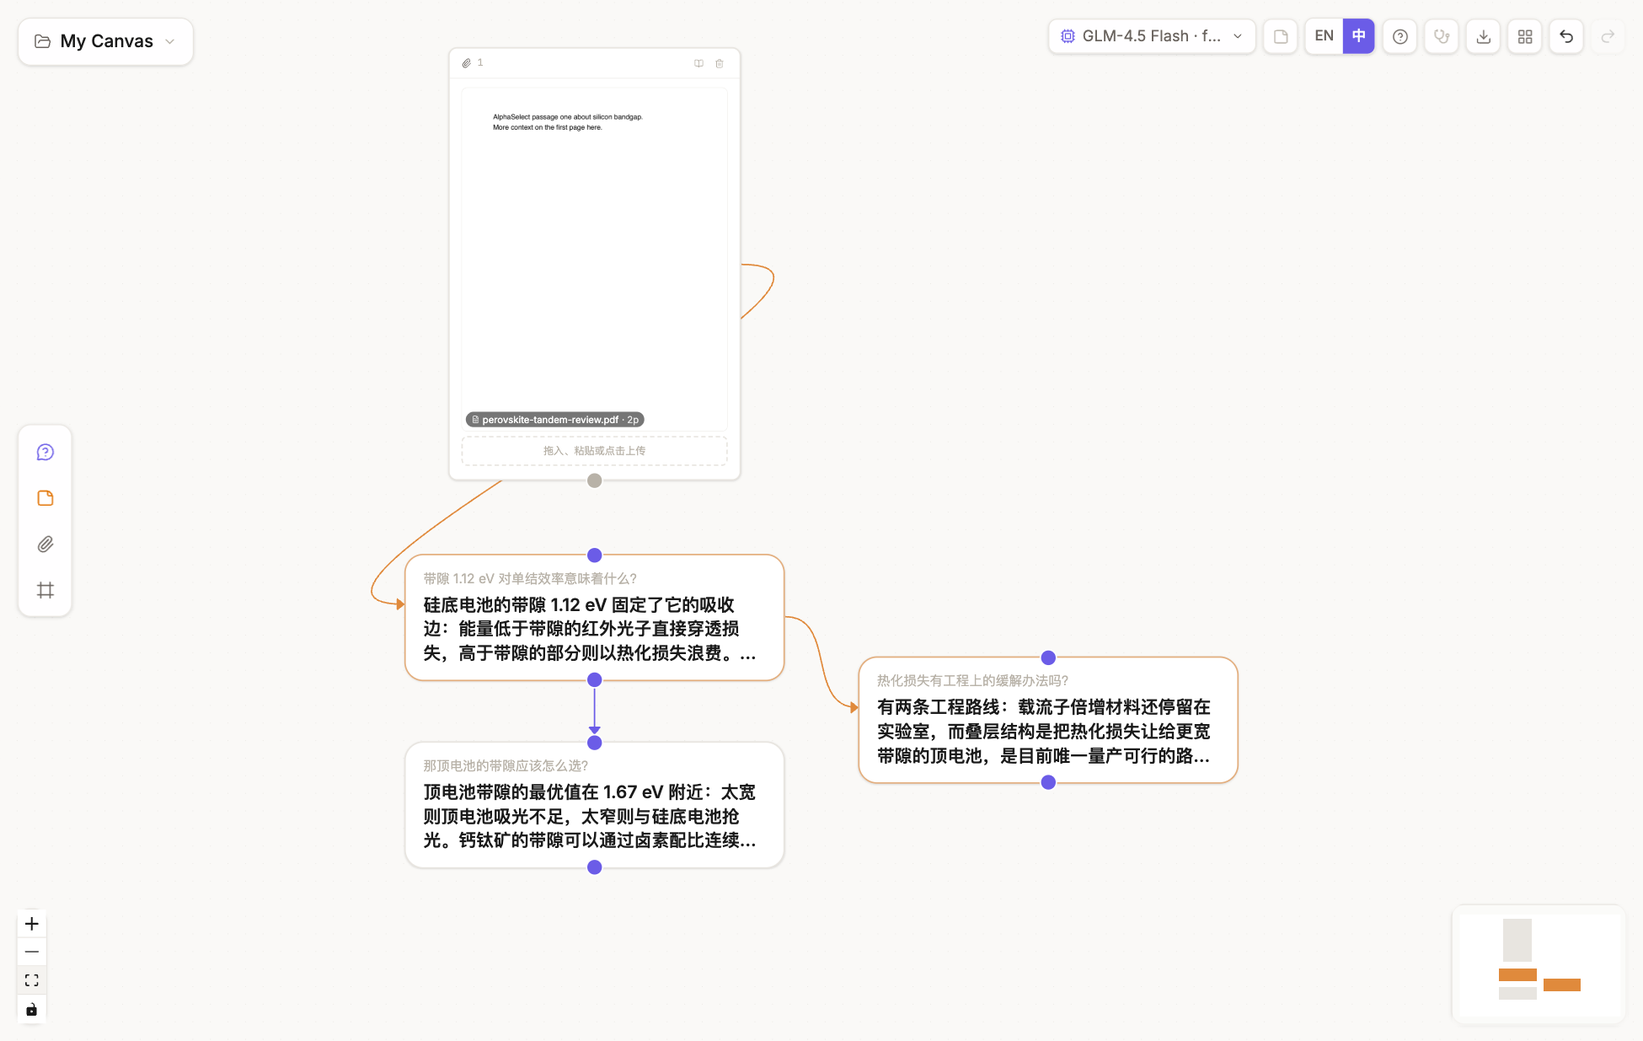
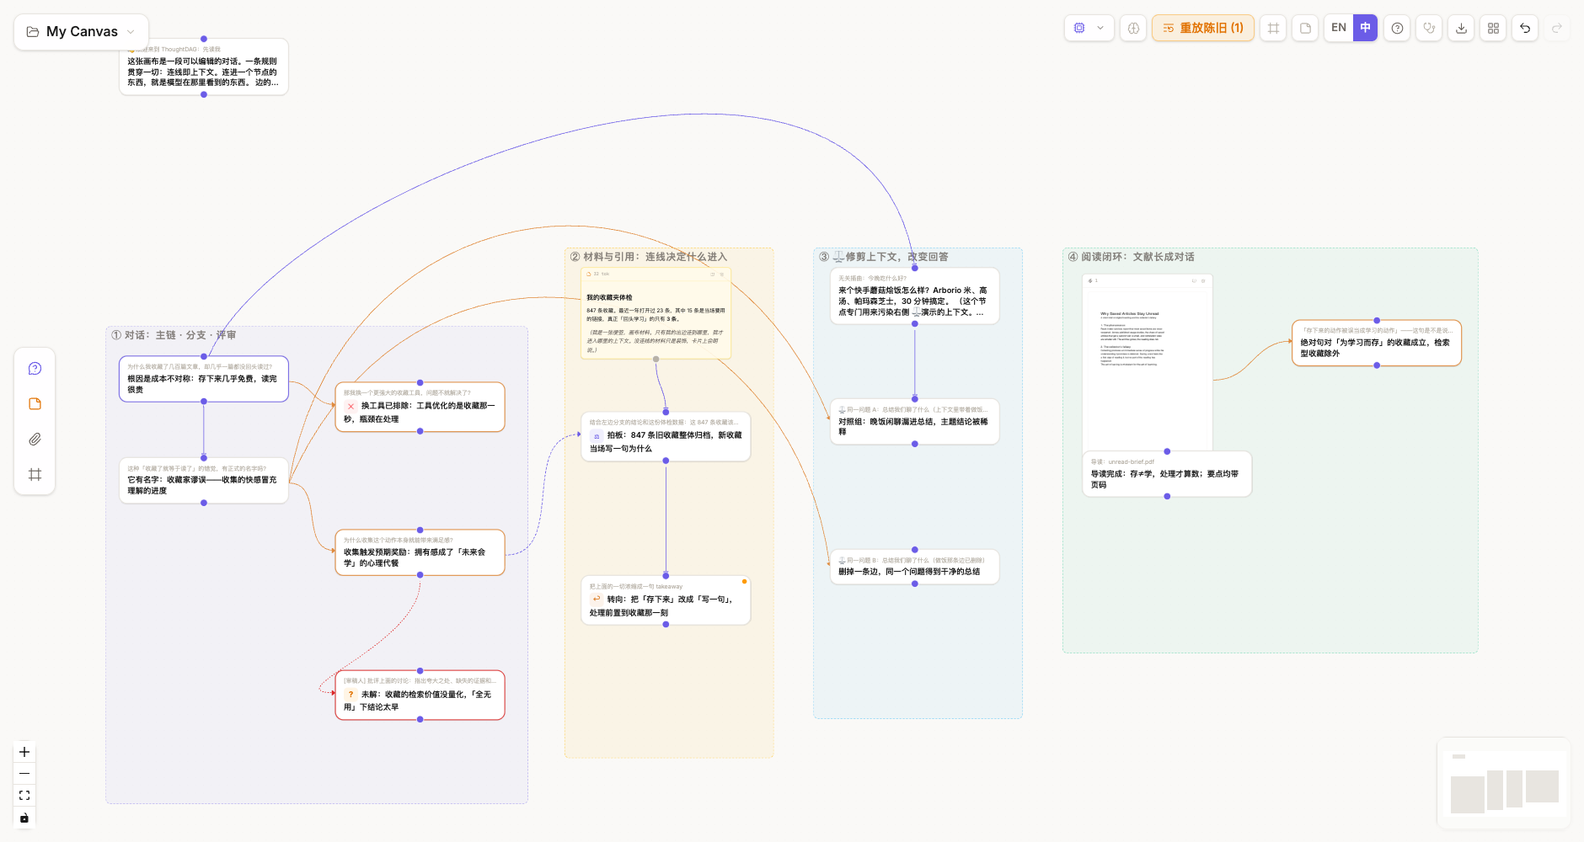
README: the reading loop and the map, with screenshots from the new example
- Hero is now the seeded example at map zoom: four chapters, typed
  takeaway badges, the reading-loop chapter with its PDF and digest.
- The reading chapter tells the full loop: anchors on the pages, p.N
  chips jumping back from canvas, the guided digest as a wireable node.
- Feature table gains a reading-loop row; map row names the badges.
- Full list: reader entry covers anchors and the thread index; new
  guided-digest entry; example-canvas entry describes the four chapters.
- All three static screenshots retaken from the new example (reader
  shows the anchored sentence with its bubble and the open thread).
- Example copy: bold-with-inner-colon patterns broke CommonMark strong
  parsing next to CJK text (literal ** leaked); colons moved outside.
  Question texts render as plain text on cards, so markdown removed.

diff --git a/src/lib/example-graph.ts b/src/lib/example-graph.ts
@@ -220,7 +220,7 @@ const CONTENT: Record<Lang, { nodes: SeedNode[] }> = {
       {
         id: 'welcome',
         q: '👋 欢迎来到 ThoughtDAG：先读我',
-        a: '这张画布是一段**可以编辑的对话**。一条规则贯穿一切：**连线即上下文**。连进一个节点的东西，就是模型在那里看到的东西。\n\n**边的语言：**\n- **紫色实线** = 对话主链（完整历史流入；排版和范式沿它推进）\n- **橙色实线** = 从选中文字长出的探索分支（同样是结构边，只是另一条脉络）\n- **紫色虚线** = **引用**：把那个节点的问答+它上游问题的来路带进来，不拖整条对话。选中这条边能看到 token 价签，可切换 引用 ⇄ 全量\n- **红色虚线** = 盯着一条讨论线的评审\n\n**标记：**琥珀色**「上游已变」徽章** = 这个回答写成之后上游被改过。点徽章原地重放（追加新版本，旧版保留）；工具栏的琥珀 chip 可按依赖顺序**批量重放**全部陈旧节点（先确认、带 token 报价）。\n\n**地图：**缩小画布（滚轮/触控板），每张卡片会收起成一句「收获」——问题变眉题，结论当标题，关键动作带徽章：✕ 排除 · ⚖ 决策 · ↩ 转向 · ? 待解。放大回来继续读全文。\n\n**手势：**双击空白=新提问节点 · 双击卡片=阅读面板 · 拖线到空白=就地延续 · 拖线落在卡片上=引用它。\n\n下面每个虚线分区是一章。随便删、随便拖，`?` 打开教程，右上角的下载图标随时导出整张画布的备份。这张图现在是你的了。',
+        a: '这张画布是一段**可以编辑的对话**。一条规则贯穿一切：**连线即上下文**。连进一个节点的东西，就是模型在那里看到的东西。\n\n**边的语言**：\n- **紫色实线** = 对话主链（完整历史流入；排版和范式沿它推进）\n- **橙色实线** = 从选中文字长出的探索分支（同样是结构边，只是另一条脉络）\n- **紫色虚线** = **引用**：把那个节点的问答+它上游问题的来路带进来，不拖整条对话。选中这条边能看到 token 价签，可切换 引用 ⇄ 全量\n- **红色虚线** = 盯着一条讨论线的评审\n\n**标记**：琥珀色**「上游已变」徽章** = 这个回答写成之后上游被改过。点徽章原地重放（追加新版本，旧版保留）；工具栏的琥珀 chip 可按依赖顺序**批量重放**全部陈旧节点（先确认、带 token 报价）。\n\n**地图**：缩小画布（滚轮/触控板），每张卡片会收起成一句「收获」——问题变眉题，结论当标题，关键动作带徽章：✕ 排除 · ⚖ 决策 · ↩ 转向 · ? 待解。放大回来继续读全文。\n\n**手势**：双击空白=新提问节点 · 双击卡片=阅读面板 · 拖线到空白=就地延续 · 拖线落在卡片上=引用它。\n\n下面每个虚线分区是一章。随便删、随便拖，`?` 打开教程，右上角的下载图标随时导出整张画布的备份。这张图现在是你的了。',
         x: 40, y: -640,
       },
       // ── ① 对话主链 ──
@@ -262,7 +262,7 @@ const CONTENT: Record<Lang, { nodes: SeedNode[] }> = {
       {
         id: 'evaluator',
         q: '[审稿人] 批评上面的讨论：指出夸大之处、缺失的证据和未言明的假设。保持简洁。',
-        a: '**批评：**上面的论证把「很少打开」悄悄等同于「毫无价值」，这是未言明的假设。收藏还有**检索价值**：很多条目的正确用法本来就是「需要时找得到」，而不是「通读」。整个讨论没有任何数据区分这两类收藏各占多少。\n\n*试着追问我。我是个普通节点，红色的边会随讨论延伸自动前移，每一步新内容我都会自己重新评审。*',
+        a: '**批评**：上面的论证把「很少打开」悄悄等同于「毫无价值」，这是未言明的假设。收藏还有**检索价值**：很多条目的正确用法本来就是「需要时找得到」，而不是「通读」。整个讨论没有任何数据区分这两类收藏各占多少。\n\n*试着追问我。我是个普通节点，红色的边会随讨论延伸自动前移，每一步新内容我都会自己重新评审。*',
         x: 700, y: 1290,
         extra: {
           isEvaluator: true, autoRerun: true,
@@ -307,15 +307,15 @@ const CONTENT: Record<Lang, { nodes: SeedNode[] }> = {
       },
       {
         id: 'cmp-full',
-        q: '⚖ 同一问题 A：总结我们聊了什么（上下文里**带着**做饭闲聊）',
+        q: '⚖ 同一问题 A：总结我们聊了什么（上下文里带着做饭闲聊）',
         a: '以下是我们讨论的总结：\n\n我们讨论了收藏夹吃灰的原因（成本不对称、收藏家谬误、预期奖励），排除了换工具这条路，**还有晚饭计划：用 Arborio 米做蘑菇烩饭**。\n\n*注意闲聊如何漏进来稀释了主题总结。模型分不清什么重要：上游的一切都是「上下文」。*',
         x: 2210, y: 460,
         extra: { summaries: ['对照组：晚饭闲聊漏进总结，主题结论被稀释'] },
       },
       {
         id: 'cmp-pruned',
-        q: '⚖ 同一问题 B：总结我们聊了什么（做饭那条边**已删除**）',
-        a: '以下是我们讨论的总结：\n\n**收藏夹为何吃灰：**存下来几乎免费、读完很贵；收集的快感冒充理解的进度（收藏家谬误）。**换工具已排除**：瓶颈在处理不在收藏。**出路**：处理前置——存的那一刻写一句为什么。\n\n*同一个问题，但这个节点的入边跳过了做饭节点。对比 A 节点：这就是「你控制上下文」的含义。追问框上方的**「将发送」预览**会按 材料 · 引用 · 对话 三层展示到底有什么会流入。花 token 之前先看账单。*',
+        q: '⚖ 同一问题 B：总结我们聊了什么（做饭那条边已删除）',
+        a: '以下是我们讨论的总结：\n\n**收藏夹为何吃灰**：存下来几乎免费、读完很贵；收集的快感冒充理解的进度（收藏家谬误）。**换工具已排除**：瓶颈在处理不在收藏。**出路**：处理前置——存的那一刻写一句为什么。\n\n*同一个问题，但这个节点的入边跳过了做饭节点。对比 A 节点：这就是「你控制上下文」的含义。追问框上方的**「将发送」预览**会按 材料 · 引用 · 对话 三层展示到底有什么会流入。花 token 之前先看账单。*',
         x: 2210, y: 920,
         extra: { summaries: ['删掉一条边，同一个问题得到干净的总结'] },
       },

diff --git a/README.md b/README.md
@@ -16,7 +16,7 @@ An infinite canvas where LLM conversations grow into an editable thought graph.
 
 [中文](./README_ZH.md) · [Quick start](#quick-start) · [Features](#features-at-a-glance) · [Models](#supported-models) · [Roadmap](#roadmap)
 
-<img src="docs/hero.png" alt="ThoughtDAG canvas: a PDF material node wearing its first page as a cover, questions grown from reading wired below it, a follow-up chain and an orange explore branch" width="100%"/>
+<img src="docs/hero.png" alt="ThoughtDAG at map zoom: four framed chapters around one question, every card folded into its one-line takeaway, decisive moves wearing badges (ruled out, decided, pivoted, open), a PDF with its cover and a digest node in the reading-loop chapter" width="100%"/>
 
 </div>
 
@@ -33,7 +33,7 @@ npm run server         # LLM proxy
 npm run dev            # → http://localhost:5173
 ```
 
-The first launch opens a seeded example canvas, so there is something to play with before you type. The fastest way in: drop a PDF on the landing page and start reading. The Zhipu key also powers web search (engine tiers switchable in the model menu); scholarly search (arXiv + Semantic Scholar) is free and needs no key at all.
+The first launch opens a seeded example canvas — four chapters around one everyday question (why saved articles stay unread), from the conversation grammar to a real embedded PDF with its reading loop. Zoom out: the hero image above is that canvas as a map. The fastest way in: drop a PDF on the landing page and start reading. The Zhipu key also powers web search (engine tiers switchable in the model menu); scholarly search (arXiv + Semantic Scholar) is free and needs no key at all.
 
 ## The One Rule: a wire is context
 
@@ -45,9 +45,11 @@ The model sees exactly what wires into a node. Adding an edge injects context, d
 
 ## Read a paper into a map
 
-Drop in a PDF and read the original pages. Select a passage and ask: the answer streams in beside the document, while the question lands on the canvas as a node wired to the material, page number included. Follow up in place, highlight what matters, keep reading. When you look up, the map of your close reading has drawn itself. Scanned documents rewrite into readable Markdown (formulas included) in one click.
+Drop in a PDF and read the original pages. Select a passage and ask: the answer streams in beside the document, and the question lands on the canvas wired to the material, page number included. The asked passage keeps a mark on the page — a highlight wash and a bubble that reopens the conversation, so everything you asked stays reachable while you read. The trip works both ways: back on the canvas, the node wears a p.N chip that jumps straight back to that page in the reader.
 
-<img src="docs/reader.png" alt="The material reader: original PDF with a selectable text layer on the left, the annotation rail streaming an answer on the right, question chips growing in the footer" width="100%"/>
+One click writes a guided digest: a short structured post in your language, every point anchored to its page with jump buttons. The digest is itself a node — wire it downstream and later questions ride the material's best compression instead of its full text. Scanned documents rewrite into readable Markdown (formulas included) in one click.
+
+<img src="docs/reader.png" alt="The material reader: the asked sentence wearing its highlight and bubble on the original page, the annotation rail showing that conversation, a digest tab in the header and page-tagged question chips in the footer" width="100%"/>
 
 ## The core gesture
 
@@ -62,7 +64,8 @@ Drop in a PDF and read the original pages. Select a passage and ask: the answer 
 | 🧠 Context editing | Merge branches by drawing a wire, prune memory by deleting one, archive dead ends out of every future context |
 | 🔗 References | Dashed edges quote a node without dragging its conversation along; toggle quote ⇄ full with the price shown |
 | 🧹 Converge | Box-select redundant nodes, merge them into one structured synthesis, archive the originals |
-| 🗺 Map view | Zoomed out, every card shows its one-line takeaway; the canvas reads like a lab notebook's table of contents |
+| 🗺 Map view | Zoomed out, every card shows its one-line takeaway, badged by move: ✕ ruled out · ⚖ decided · ↩ pivoted · ? open |
+| 📖 Reading loop | Asked passages keep marks on the PDF pages; canvas nodes jump back with p.N chips; one-click guided digest as a wireable node |
 | 🧭 Staleness & replay | Upstream edits mark the answers they invalidate; replay them in dependency order, token estimate first |
 | 🩺 Topology check-up | One click flags structural diseases (duplicate context routes, broken blind pools), each with a jump and a fix |
 | 🧪 Paradigms | Reusable workflows of human and machine steps; change the input and replay the whole experiment |
@@ -79,8 +82,9 @@ Drop in a PDF and read the original pages. Select a passage and ask: the answer 
 <details>
 <summary><b>📜 Full feature list (60+)</b></summary>
 
-- **Material reader**: original PDF rendering with a selectable text layer (pdf.js); select → ask lands a branch node with `(p.N)` provenance; extracted-text view for scanned PDFs; per-page vision **Recognize** into Markdown/LaTeX (editable, MinerU paste point); whole-material ask input; per-material scroll memory
+- **Material reader**: original PDF rendering with a selectable text layer (pdf.js); select → ask lands a branch node with `(p.N)` provenance, and the passage keeps an anchor on the page (highlight wash + a bubble that reopens the thread); canvas nodes carry a p.N chip that jumps back into the reader; extracted-text view for scanned PDFs; per-page vision **Recognize** into Markdown/LaTeX (editable; external OCR output pastes in); whole-material ask input; a footer thread index tagging each conversation p.N or whole-material; per-material scroll memory
 - **Annotation rail**: answers stream beside the document; follow-ups chain onto the thread; selecting inside a rail answer explores (branch of THAT answer) or highlights; thread chips switch conversations, a crosshair jumps to the canvas
+- **Guided digest**: one click turns the material into a short structured post in the UI language, with (p.N) jump buttons back into the original pages; the digest is a canvas NODE (versioned on rewrite, model-stamped, wireable downstream as the material's compression); regenerating routes through the digest prompt against the full text
 - **Material-first landing**: drop a document on the landing page and it lands as a material node with the reader auto-opened; attachments to the root question stay behind the explicit paperclip
 - **Map mode**: below ~0.8 zoom cards render as takeaway-first label plaques (pill radius, type-colored border); hysteresis prevents boundary flapping; nodes awaiting human input and locked paradigm runs keep their working form
 - **Versioned takeaway summaries**: one conclusion-first line generated per answer version (display layer only, never enters context or fingerprints; short answers show whole and skip the call)
@@ -135,7 +139,7 @@ Drop in a PDF and read the original pages. Select a passage and ask: the answer 
 - **Staleness tracking**: per-generation upstream fingerprints; amber badges on nodes, dots in the context tree, explicit [Stale] marks in downstream payloads
 - **Batch replay**: one click re-runs every stale node in dependency order; confirm dialog with a token estimate; stop anytime
 - **Paradigm mode**: human/prompt steps + material slots; instantiate → cascade → unlock; edit the input + replay = re-run the experiment; bounded reviewer rounds declared in the file
-- **Example canvas on first run**: a seeded graph (with a context-pruning ⚖ side-by-side demo) instead of a blank page; reload it anytime from the landing screen
+- **Example canvas on first run**: four framed chapters around one everyday question — conversation grammar, materials & references, the ⚖ context-pruning pair, and a reading loop with a real embedded PDF (anchored question, digest node); every node carries a typed takeaway so zooming out lands on a working map; reload anytime from the landing screen
 - **Import ChatGPT / Claude exports**: drop conversations.json into Import; ChatGPT's edit/regenerate branches are preserved as graph forks, each conversation becomes its own canvas
 - **Environment-based config**: keys live in `.env`; available models register automatically per key
 

diff --git a/README_ZH.md b/README_ZH.md
@@ -16,7 +16,7 @@
 
 [English](./README.md) · [快速开始](#快速开始) · [功能总览](#功能总览) · [支持的模型](#支持的模型) · [Roadmap](#roadmap)
 
-<img src="docs/hero.png" alt="ThoughtDAG 画布：PDF 材料节点穿着首页封面，从阅读长出的问题连在下方，追问链向下、橙色探索分支向右" width="100%"/>
+<img src="docs/hero.png" alt="ThoughtDAG 地图视角：一个问题、四个分区章节，每张卡收起成一句收获，关键动作带徽章（排除、决策、转向、待解），阅读闭环章里有带封面的 PDF 和导读节点" width="100%"/>
 
 </div>
 
@@ -33,7 +33,7 @@ npm run server         # LLM 代理
 npm run dev            # → http://localhost:5173
 ```
 
-首次打开是预置的示例画布，不用输入任何东西就能上手。最快的入口：把一篇 PDF 拖到首页，从阅读开始。智谱 key 同时驱动联网搜索（引擎档位在模型菜单里可切换）；学术检索（arXiv + Semantic Scholar）免费、不需要任何 key。
+首次打开是预置的示例画布：围绕一个日常问题（收藏夹为什么总在吃灰）展开四章，从对话语法到一份内嵌真 PDF 的阅读闭环。缩小画布看看——上面的 hero 图就是这张画布的地图形态。最快的入口：把一篇 PDF 拖到首页，从阅读开始。智谱 key 同时驱动联网搜索（引擎档位在模型菜单里可切换）；学术检索（arXiv + Semantic Scholar）免费、不需要任何 key。
 
 ## 唯一法则：连线即上下文
 
@@ -45,9 +45,11 @@ npm run dev            # → http://localhost:5173
 
 ## 把文献读成思维地图
 
-拖入 PDF，读的是原版页面。圈选一段、直接提问：答案在文档旁边流式出现，问题作为节点带着页码落在画布上、连着材料。就地追问、给关键句加高亮、接着往下读。抬起头时，精读的地图已经画好了。扫描件一键重排为可读的 Markdown，公式也认。
+拖入 PDF，读的是原版页面。圈选一段、直接提问：答案在文档旁边流式出现，问题带着页码落在画布上、连着材料。问过的段落会在页面上留下印记——一道高亮和一个重开对话的气泡，读完整篇之前，问过的一切都在原地等你。这条路是双向的：回到画布，节点上的 p.N 芯片一键跳回阅读器的那一页。
 
-<img src="docs/reader.png" alt="材料阅读器：左侧是带文字层的原版 PDF，右侧批注栏流式显示回答，底部长出问题 chips" width="100%"/>
+一键生成导读：一篇你的语言写成的短篇结构化导读，每个要点都锚着页码跳转按钮。导读本身就是一个节点——把它连向下游，后续问题就以材料的最佳压缩为上下文，而不是整份原文。扫描件一键重排为可读的 Markdown，公式也认。
+
+<img src="docs/reader.png" alt="材料阅读器：被提问的句子在原版页面上带着高亮和气泡，批注栏展示那条对话，顶部有导读标签页，底部是带页码标签的问题 chips" width="100%"/>
 
 ## 核心手势
 
@@ -62,7 +64,8 @@ npm run dev            # → http://localhost:5173
 | 🧠 上下文编辑 | 拖线合并分支、删线裁剪记忆、归档的节点退出一切未来上下文 |
 | 🔗 引用 | 虚线只引一个节点的问答，不拖整条对话；引用⇄全量随时切换，价格全程可见 |
 | 🧹 收敛 | 框选冗余节点，合并成一个结构化综合，原件归档 |
-| 🗺 地图视图 | 缩小画布，每张卡显示一行收获句，整张图读起来像实验室笔记的目录 |
+| 🗺 地图视图 | 缩小画布，每张卡显示一行收获句，关键动作带徽章：✕ 排除 · ⚖ 决策 · ↩ 转向 · ? 待解 |
+| 📖 阅读闭环 | 问过的段落在 PDF 页面留印记，画布节点用 p.N 芯片跳回原文；一键导读，导读即节点、可连下游 |
 | 🧭 陈旧与重放 | 上游一改，被影响的回答立刻亮标记；按依赖顺序批量重放，先报 token 价 |
 | 🩺 拓扑体检 | 一键揪出结构病（重复通路、盲评破盲），每条发现带定位和一键修复 |
 | 🧪 范式 | 可复用的人机工作流；改个输入、一键重放，整个实验重跑一遍 |
@@ -79,8 +82,9 @@ npm run dev            # → http://localhost:5173
 <details>
 <summary><b>📜 完整功能清单（60+ 项）</b></summary>
 
-- **材料阅读器**: 原版 PDF 渲染+可选中文字层（pdf.js）；圈选→提问=支线节点带 `(p.N)` 出处；扫描件回退提取文本视图；逐页视觉**识别**为 Markdown/LaTeX（可编辑，MinerU 贴入点）；整份材料提问常驻输入；每份材料记住滚动位置
+- **材料阅读器**: 原版 PDF 渲染+可选中文字层（pdf.js）；圈选→提问=支线节点带 `(p.N)` 出处，段落在页面留下锚点（高亮洗染+重开对话的气泡）；画布节点带 p.N 芯片反向跳回阅读器；扫描件回退提取文本视图；逐页视觉**识别**为 Markdown/LaTeX（可编辑；外部 OCR 工具的输出可直接贴入）；整份材料提问常驻输入；底部对话索引给每条线程标注 p.N 或整篇；每份材料记住滚动位置
 - **批注栏**: 答案在文档旁流式出现；追问接成链；在答案里圈选可探索（挂在该回答下）或加高亮；chips 切换线程，十字跳画布
+- **导读**: 一键把材料整理成 UI 语言的短篇结构化导读，(p.N) 按钮跳回原文页；导读本身是画布节点（重写即版本、标注生成模型、可连下游作为材料的压缩表示）；重新生成走导读专用 prompt 对全文执行
 - **材料优先首页**: 文档拖到首页=材料节点+阅读器自动打开；给根问题带附件走显式回形针
 - **地图模式**: 缩放低于 ~0.8 时卡片渲染为收获句标签牌（pill 圆角+类型色描边）；滞回防抖动；等人输入的节点和运行中的范式保持工作形态
 - **收获句跟版本**: 每个回答版本各有一行结论先行的总结（纯显示层，永不进上下文与指纹；短回答直接全文、不花调用）
@@ -135,7 +139,7 @@ npm run dev            # → http://localhost:5173
 - **陈旧追踪**: 每次生成记录上游指纹；节点琥珀徽章、上下文树圆点、下游 payload 中的显式 [Stale] 标注
 - **批量重放**: 一键按依赖顺序重跑全部陈旧节点；确认框带 token 报价；随时可停
 - **范式模式**: human/prompt 步 + 材料槽；实例化 → 级联 → 解锁；改输入 + 重放 = 重跑实验；评审轮数写进文件的有界循环
-- **首次打开自带示例画布**: 预置图（含 ⚖ 上下文裁剪 A/B 对比演示）而非空白页；landing 可随时重新载入
+- **首次打开自带示例画布**: 围绕一个日常问题的四章预置图——对话语法、材料与引用、⚖ 上下文裁剪对比、内嵌真 PDF 的阅读闭环（锚点问题+导读节点）；每个节点带类型化收获句，缩小即得一张能用的地图；landing 可随时重新载入
 - **导入 ChatGPT / Claude 记录**: conversations.json 拖进导入即可；ChatGPT 的编辑/重生成分支保留为图分叉，每个对话一张画布
 - **环境变量配置**: key 走 `.env`，按 key 自动注册可用模型
 
